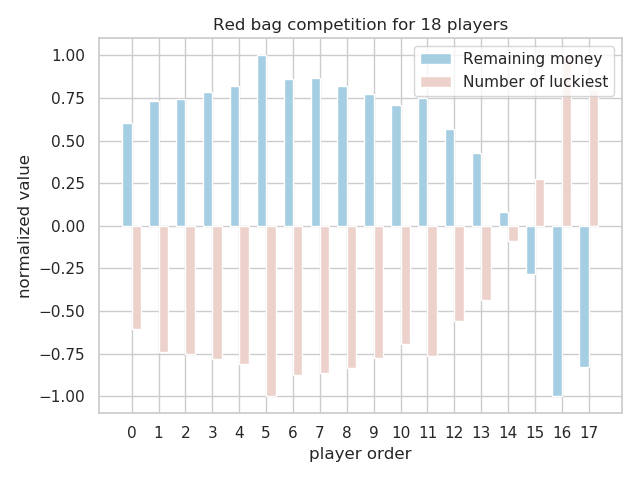
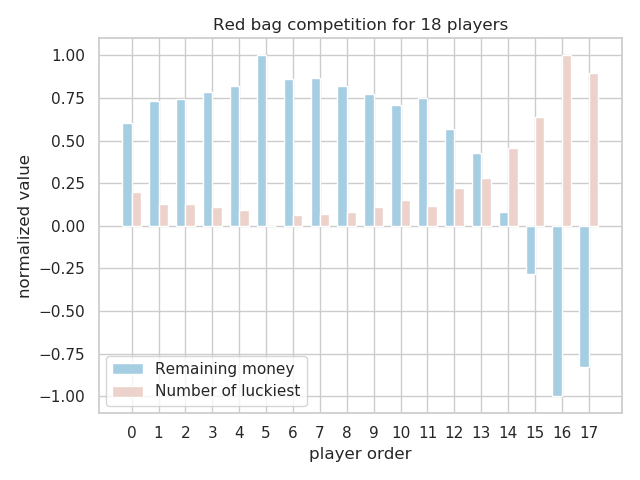
Update

Changed region(s): [[0.1562, 0.25, 0.875, 0.8438], [0.6562, 0.0938, 0.9688, 0.2188]]

diff --git a/wechat_red_bag_simulation/sim_competition.py b/wechat_red_bag_simulation/sim_competition.py
@@ -76,7 +76,7 @@ if __name__ == '__main__':
         data_, _, lucky = data[i]
         # normalize data and lucky
         data_ = normalize(data_)
-        lucky = normalize(lucky)
+        lucky = normalize(lucky, low=0, high=1.0)
         fig, ax = plt.subplots()
         n_players = data_.size
         labels = np.asarray(list(range(n_players)))
